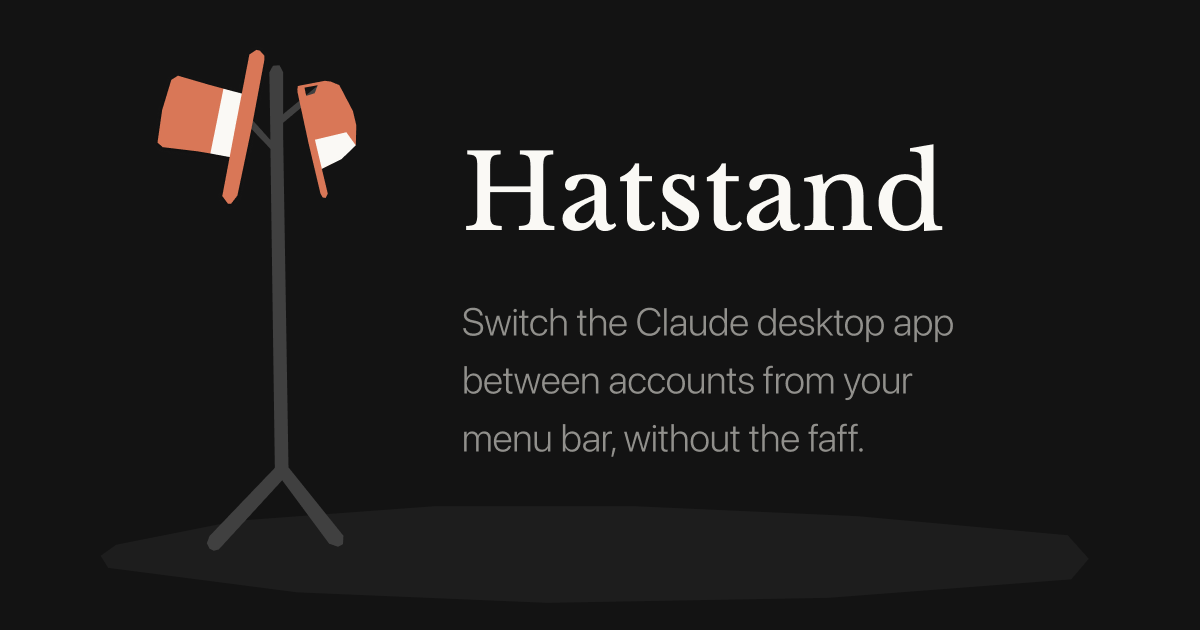
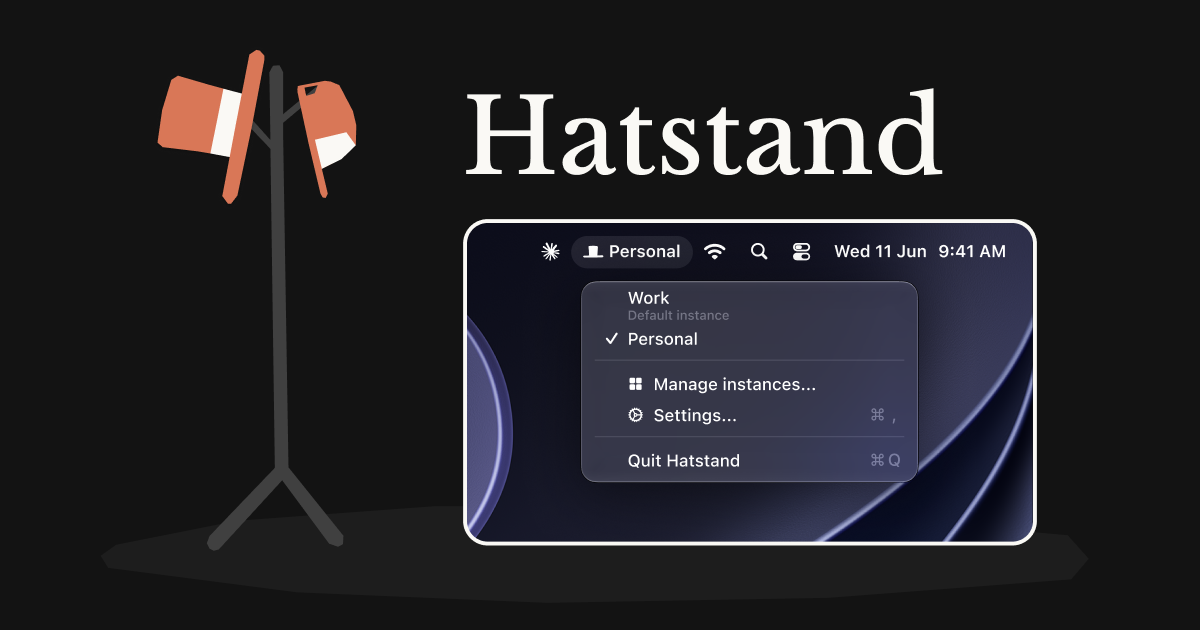
Update the website's share image
Show the Hatstand menu in the share image instead of repeating the
description, and add ?v=2 to its address so sites fetch the new one.

Changed region(s): [[0.37, 0.1508, 0.8633, 0.8746]]

diff --git a/docs/index.html b/docs/index.html
@@ -13,10 +13,10 @@
 <meta property="og:url" content="https://willblackmore.github.io/hatstand/">
 <meta property="og:title" content="Hatstand">
 <meta property="og:description" content="Switch the Claude desktop app between accounts from your menu bar, without the faff.">
-<meta property="og:image" content="https://willblackmore.github.io/hatstand/og-image.png">
+<meta property="og:image" content="https://willblackmore.github.io/hatstand/og-image.png?v=2">
 <meta property="og:image:width" content="1200">
 <meta property="og:image:height" content="630">
-<meta property="og:image:alt" content="A hatstand with two orange hats, next to the words: Hatstand. Switch the Claude desktop app between accounts from your menu bar, without the faff.">
+<meta property="og:image:alt" content="A hatstand with two orange hats next to the word Hatstand, above the Hatstand menu open in the macOS menu bar, listing the Work and Personal instances with Personal ticked.">
 <meta name="twitter:card" content="summary_large_image">
 <link rel="icon" href="favicon.svg" type="image/svg+xml">
 <link rel="preconnect" href="https://fonts.googleapis.com">
